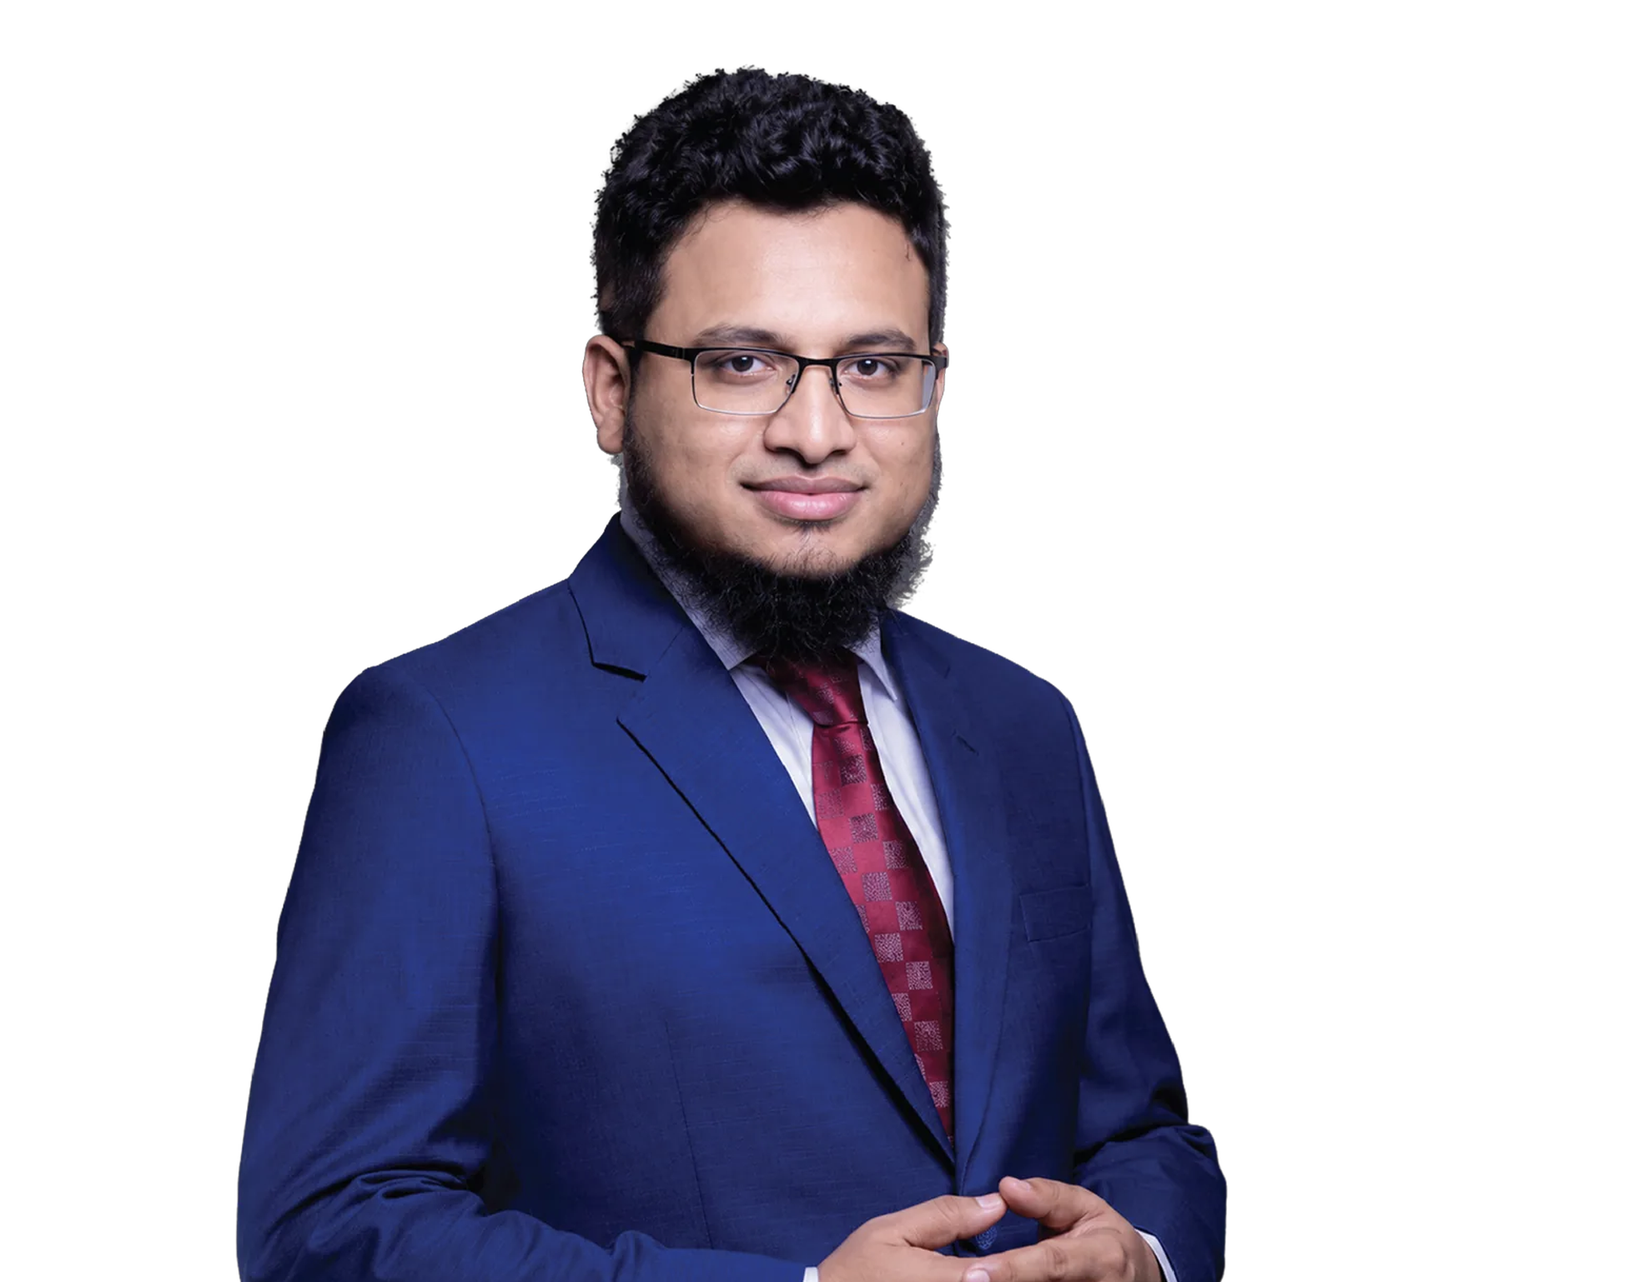
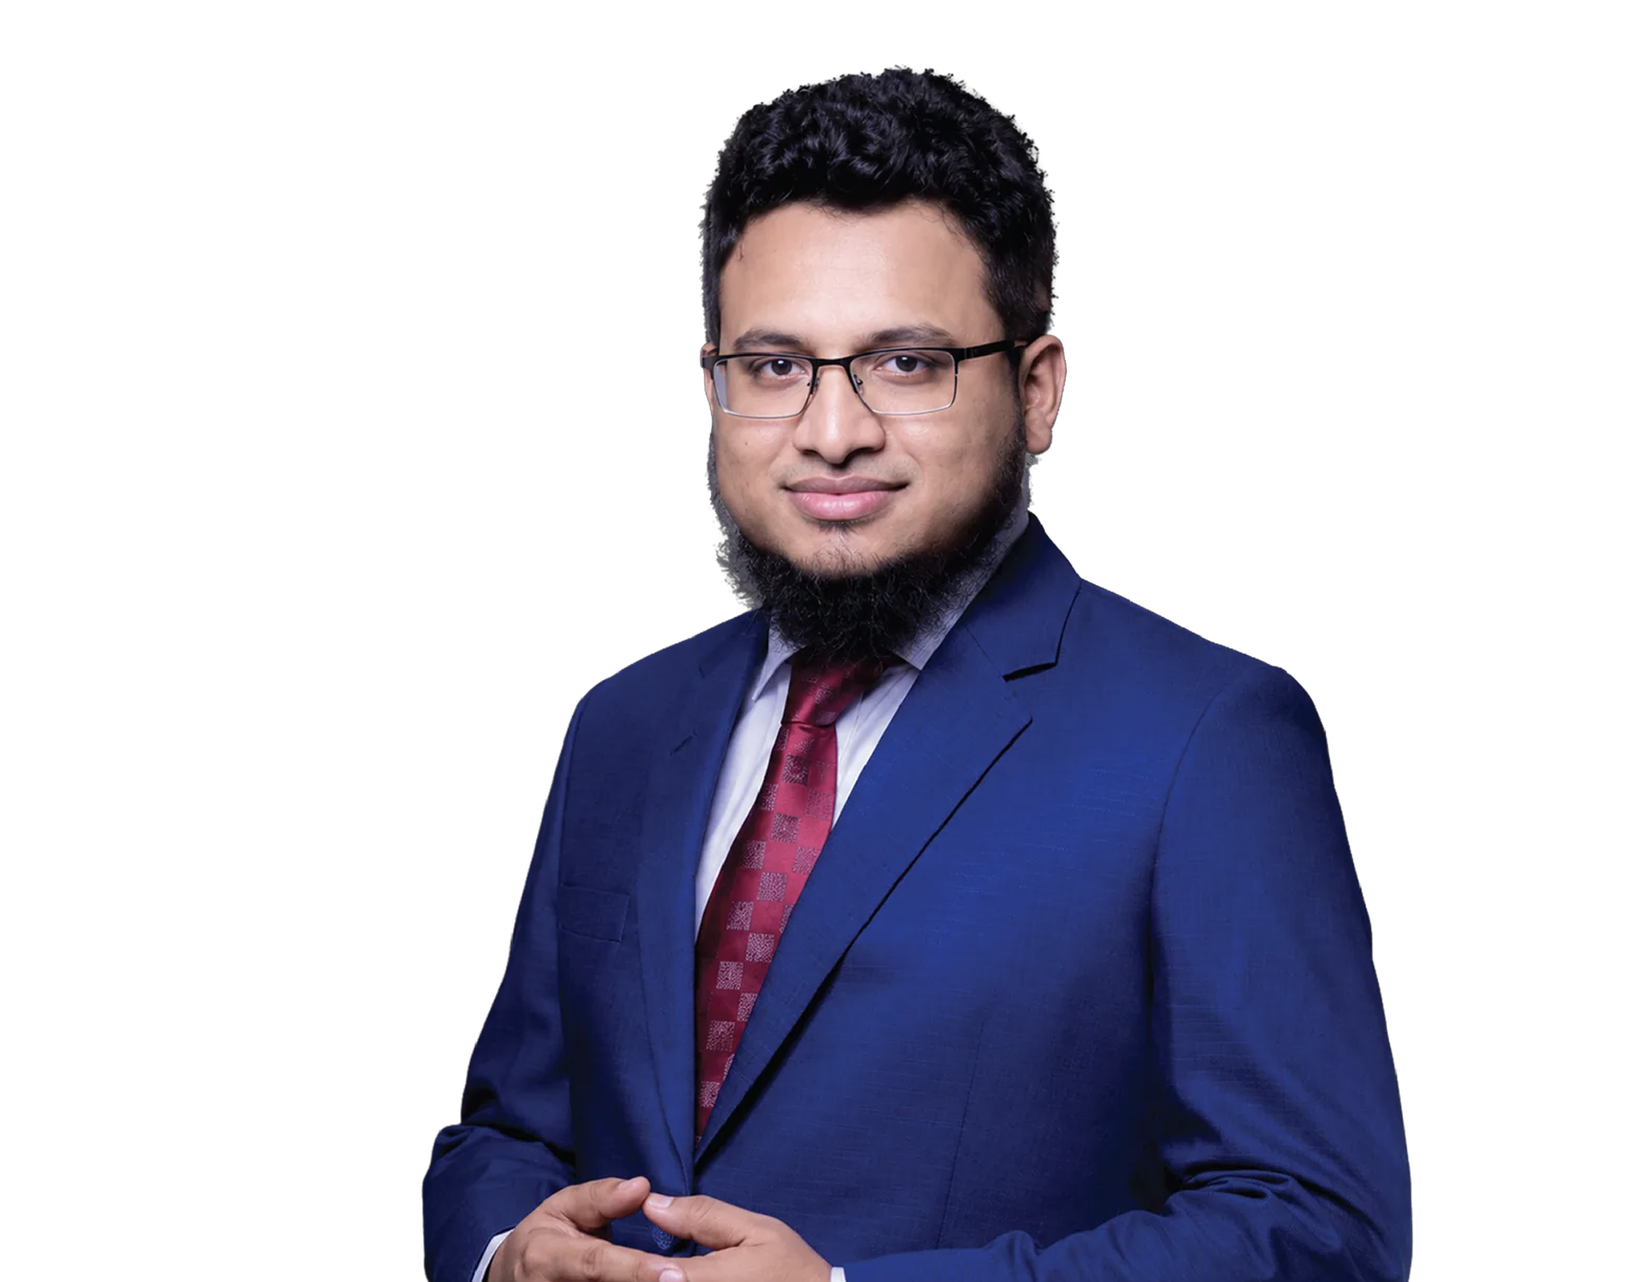
refactor(board): update board member pages for portrait consistency and layout
- Remove legacy comments and portraitClassName props for cleaner codebase
- Standardize portrait image dimensions to width 7236 and height 9848 for all members
- Wrap OtherBoardMembers component in a div with margin-bottom for consistent spacing
- Adjust MemberMessageHero component styles for uniform portrait sizing and improved typography
- Change fixed aspect ratios in OtherBoardMembers grid from 429/582 to 429/510 and adjust font sizes
- Enhance MessageSection component to refine layout spacing, portrait positioning, and text styles
- Add new GSAP animation (.rv-lift) for smooth portrait entrance effect with scroll trigger
- Replace chairman portrait image with updated version and remove old file from repository

diff --git a/components/board/MessageSection.tsx b/components/board/MessageSection.tsx
@@ -60,8 +60,8 @@ export default function MessageSection({
     >
       <div className="flex flex-1 flex-col px-4 sm:px-6 pb-4 md:px-12 lg:px-20">
         <div
-          className={`relative pt-[22.5rem] md:pt-[27.5rem] lg:h-[36rem] lg:min-h-0 ${
-            reduceTopGap ? "mt-10 md:mt-12 lg:mt-[8.5rem]" : "mt-10 lg:mt-[7.125rem]"
+          className={`relative pt-[23rem] md:pt-[32rem] lg:h-[33rem] lg:min-h-0 ${
+            reduceTopGap ? "mt-24 lg:mt-[10rem]" : "mt-10 lg:mt-[6rem]"
           }`}
           data-rv-scope
         >
@@ -96,14 +96,27 @@ export default function MessageSection({
             )}
           </div>
 
-          {/* Portrait — same positioning as the legacy section. No hover. */}
-          <div className="absolute -top-16 left-1/2 z-20 h-[26.5rem] w-[86%] max-w-[30rem] -translate-x-1/2 md:-top-20 md:h-[32.5rem] lg:top-auto lg:bottom-0 lg:left-[25.87%] lg:h-[44rem] lg:w-[38%] lg:max-w-[31rem] lg:translate-x-0">
+          {/* Portrait — same positioning as the legacy section. No hover.
+              The img itself carries `.rv-lift` (slow rise from below): the
+              wrapper owns the mobile `-translate-x-1/2`, and GSAP writes an
+              inline transform, so animating the wrapper would knock the
+              portrait out of its horizontal centering.
+              Below lg the picture is drawn with `object-cover`: these PNGs are
+              landscape canvases with wide transparent margins, so `contain`
+              spent most of the box on empty space and the member looked small.
+              Cover crops the margins and scales the figure off the box height.
+              The `-top` offset and the container's `pt` stay in step (box
+              bottom = -top + h = 23rem), so the copy still starts exactly
+              where the figure ends: shrinking the figure only pulls the head
+              back down, it never moves the text. */}
+          <div className="absolute -top-[4.2rem] left-1/2 z-20 h-[27.2rem] w-[103%] max-w-[58rem] -translate-x-1/2 md:-top-[26rem] md:h-[58rem] md:w-[92%] lg:top-auto lg:bottom-0 lg:left-[17%] lg:h-[52rem] lg:w-[54%] lg:max-w-[52rem] lg:translate-x-0">
             <Image
               src={image.src}
               alt={`${name}, ${role} of Amanat Shah Group`}
               fill
-              sizes="(min-width: 1024px) 38vw, (min-width: 768px) 32rem, 86vw"
-              className="origin-bottom object-contain object-bottom transition-none"
+              sizes="(min-width: 1024px) 52rem, (min-width: 768px) 58rem, 103vw"
+              className="rv-lift origin-bottom object-contain object-bottom max-lg:object-cover transition-none"
+              data-delay="0.15"
               quality={90}
             />
           </div>
@@ -115,10 +128,10 @@ export default function MessageSection({
           />
 
           {/* Name / role / divider / org label — left */}
-          <div className={`relative z-30 border-t border-current/20 px-0 sm:px-6 pt-8 md:px-10 lg:absolute lg:inset-x-auto lg:top-1/2 lg:left-[5rem] lg:border-t-0 lg:px-0 lg:pt-0 lg:-translate-y-1/2 lg:w-[18.375rem] ${textClass}`}>
-            <h3 className="font-archivo-black text-3xl leading-[1.08] uppercase lg:text-[2rem] rv-split">{name}</h3>
+          <div className={`relative z-30 border-t border-current/20 px-0 sm:px-6 pt-6 md:px-10 lg:absolute lg:inset-x-auto lg:top-1/2 lg:left-[5rem] lg:border-t-0 lg:px-0 lg:pt-0 lg:-translate-y-1/2 lg:w-[18.375rem] ${textClass}`}>
+            <h3 className="font-archivo-black text-2xl sm:text-3xl leading-[1.08] uppercase lg:text-[2rem] rv-split">{name}</h3>
             <div className="rv">
-              <p className="mt-4 sm:mt-6 leading-6 text-[1.25rem]">{role}</p>
+              <p className="mt-2 sm:mt-4 sm:mt-6 leading-6 text-lg sm:text-[1.25rem]">{role}</p>
               <p className="mt-4 block sm:hidden font-archivo-black text-base leading-5 uppercase lg:text-[1.1rem] mb-5">
                 {orgLabel}
               </p>
@@ -132,7 +145,7 @@ export default function MessageSection({
           {/* Bio + CTA — right, left-aligned */}
           <div className={`relative z-30 mt-5 sm:mt-8 flex flex-col gap-8 px-0 sm:px-6 text-left md:px-10 lg:absolute lg:inset-x-auto lg:right-[5rem] lg:top-1/2 lg:bottom-auto lg:mt-0 lg:px-0 lg:w-[36rem] lg:-translate-y-1/2 lg:gap-[2.5rem] pb-[2rem] sm:pb-0 ${textClass}`}>
             <div className="rv">
-              <p className="text-lg sm:text-xl leading-7 lg:text-[1.7rem] lg:leading-9">
+              <p className="text-base sm:text-xl leading-6 lg:text-[1.7rem] lg:leading-9 tracking-wider">
                 {bio}
               </p>
             </div>

diff --git a/components/web-info/RevealRunner.tsx b/components/web-info/RevealRunner.tsx
@@ -17,6 +17,11 @@ type MatchMediaInstance = ReturnType<typeof gsap.matchMedia>;
  *
  *   .rv        block fade + rise (optional data-delay="0.25" for cascade
  *              rhythm between sibling blocks)
+ *   .rv-lift   large-imagery entrance, mirroring the homepage "Legacy of
+ *              Leadership" portrait tween: rises from below while settling out
+ *              of a slight zoom, power3.out, and reverses when scrolled back
+ *              up. The fade still finishes early so the figure is solid while
+ *              it keeps travelling. No blur; it turns muddy on tall images.
  *   .rv-items  children stagger in — marks [data-card] / [data-member-card]
  *              descendants when present, otherwise the `.grid > div` cells
  *   .rv-split  heading words rise out of masks (text becomes spans client-side;
@@ -40,6 +45,11 @@ type MatchMediaInstance = ReturnType<typeof gsap.matchMedia>;
 const TOKENS = {
   start: "top 78%",
   block: { y: 26, duration: 1.0 },
+  /* Numbers copied from LegacyOfLeadership's desktop portrait tween (y 80,
+   * scale 0.94 -> 1, 1.35s, power3.out, trigger "top 82%", reverses on
+   * scroll-up). Travel still exceeds the h-24 bottom mask in MessageSection,
+   * so the figure never shows below the card while rising in. */
+  lift: { y: 80, scale: 0.94, duration: 1.35, fade: 0.45, start: "top 82%" },
   items: { y: 26, duration: 1.0, stagger: 0.06 },
   split: { duration: 1.0, stagger: 0.045 },
   image: { clip: 1.5, zoom: 1.9 },
@@ -115,6 +125,45 @@ function bind(): MatchMediaInstance {
               : { delay: parseFloat(el.dataset.delay || "0") }),
             scrollTrigger: { trigger: triggerOf(el), start: TOKENS.start, once: true },
           }
+        );
+      });
+
+    /* .rv-lift — tall imagery (board portraits, full-bleed figures) rises from
+     * below while its zoom settles out, the same motion the homepage Legacy of
+     * Leadership portrait uses. Two tracks on one timeline so the fade does not
+     * have to wait for the travel: the figure is fully opaque after
+     * TOKENS.lift.fade while still moving for the full duration. Shares
+     * .rv's [data-rv-scope] grouping, but plays and reverses with the scroll
+     * instead of firing once. */
+    document
+      .querySelectorAll<HTMLElement>(".rv-lift:not([data-rv-bound])")
+      .forEach((el) => {
+        el.dataset.rvBound = "1";
+        const tl = gsap.timeline({
+          delay: parseFloat(el.dataset.delay || "0"),
+          scrollTrigger: {
+            trigger: triggerOf(el),
+            start: TOKENS.lift.start,
+            toggleActions: "play none none reverse",
+          },
+        });
+        tl.fromTo(
+          el,
+          { autoAlpha: 0 },
+          { autoAlpha: 1, duration: TOKENS.lift.fade, ease: "power1.out" },
+          0
+        );
+        tl.fromTo(
+          el,
+          { y: TOKENS.lift.y, scale: TOKENS.lift.scale },
+          {
+            y: 0,
+            scale: 1,
+            duration: TOKENS.lift.duration,
+            ease: "power3.out",
+            force3D: true,
+          },
+          0
         );
       });
 

diff --git a/components/board/MemberMessageHero.tsx b/components/board/MemberMessageHero.tsx
@@ -6,10 +6,10 @@ export type MemberMessageHeroProps = {
   role: string;
   org: string;
   portrait: { src: string; width: number; height: number };
-  /** Desktop size/position for the portrait. Bottom-anchored and sized to fill
-      the hero height at the source image's aspect ratio, so it differs per
-      member: width = 42.7em x (w / h), right = 120em - 62.5em - width. */
-  portraitClassName: string;
+  /** Optional extra desktop classes for the portrait. Size and horizontal
+      position are uniform for every member and live on the <Image> below, so
+      this is only for the rare page that needs a one-off tweak. */
+  portraitClassName?: string;
 };
 
 /**
@@ -48,8 +48,7 @@ export default function MemberMessageHero({
           quality={90}
           className="hidden sm:block lg:absolute lg:left-[22.5em] lg:top-[18.75em] lg:h-[13.35em] lg:w-[13.35em]"
         />
-
-        {/* Portrait — shows first on mobile, bottom-aligned on desktop */}
+        
         <Image
           src={portrait.src}
           alt={`${name} — ${role}`}
@@ -57,14 +56,14 @@ export default function MemberMessageHero({
           height={portrait.height}
           priority
           quality={90}
-          className={`rv-rise mx-auto w-[75%] sm:w-48 sm:mt-8 sm:w-72 lg:absolute lg:bottom-0 lg:mx-0 lg:mt-0 h-auto z-20 ${portraitClassName}`}
+          className={`rv-rise mx-auto w-[92%] sm:w-48 sm:mt-8 sm:w-88 lg:absolute lg:bottom-0 lg:right-[13.72em] lg:mx-0 lg:mt-0 h-auto lg:h-[38em] lg:w-[44em] lg:object-cover lg:object-bottom z-20 ${portraitClassName ?? ""}`}
         />
 
         {/* Name / role / divider / group — shows after portrait on mobile */}
-        <div className="mt-4 sm:mt-6 lg:absolute lg:bottom-[3em] lg:left-[22.5em] lg:mt-0 lg:w-[51.25em]" data-rv-scope>
-          <h1 className="font-archivo-black font-medium text-[1.65rem] sm:text-4xl lg:text-[3em] lg:leading-[1.11] text-neutral-800 rv-split">{name}</h1>
+        <div className="mt-2.5 sm:mt-6 lg:absolute lg:bottom-[3em] lg:left-[22.5em] lg:mt-0 lg:w-[51.25em]" data-rv-scope>
+          <h1 className="font-archivo-black font-medium text-[1.5rem] sm:text-4xl lg:text-[3em] lg:leading-[1.11] text-neutral-800 rv-split">{name}</h1>
           <div className="rv">
-            <p className="mt-[0.33em] tracking-wider text-[1.125rem] sm:text-[1.33em] lg:leading-[1.5] text-neutral-800">
+            <p className="mt-[0.33em] tracking-wider text-base sm:text-[1.33em] lg:leading-[1.5] text-neutral-800">
               {role}
             </p>
             <div

diff --git a/components/board/OtherBoardMembers.tsx b/components/board/OtherBoardMembers.tsx
@@ -121,9 +121,9 @@ export default function OtherBoardMembers({
   if (layout === "grid") {
     const renderCard = (member: CarouselMember, key: string, slider: boolean) => {
       const cardContent = (
-        <div className="relative w-full aspect-[429/582]">
+        <div className="relative w-full aspect-[429/510]">
           <div className="absolute inset-x-0 top-0 z-10 flex flex-col items-center text-center px-4 pt-6 sm:pt-10 lg:pt-[5em]">
-            <h3 className="whitespace-pre-line font-archivo-black font-medium text-[1.2em] lg:text-[2em] text-neutral-800 leading-tight">
+            <h3 className="whitespace-pre-line font-archivo-black font-medium text-[1.1em] lg:text-[2em] text-neutral-800 leading-tight">
               {member.name}
             </h3>
             <p className="mt-0.5 sm:mt-1 text-[15px] lg:text-[1.2em] text-neutral-600 font-medium tracking-wider">
@@ -216,7 +216,7 @@ export default function OtherBoardMembers({
                 /* Fixed card ratio so the source image's dimensions never drive
                    the layout — otherwise a shorter portrait leaves dead space
                    below it once the flex row stretches every card to match */
-                <div className="relative w-full aspect-[429/582]">
+                <div className="relative w-full aspect-[429/510]">
                   <div className="absolute inset-x-0 top-0 z-10 flex flex-col items-center text-center px-4 pt-6 sm:pt-10 lg:pt-[5em]">
                     <h3 className="whitespace-pre-line font-archivo-black font-medium text-[1.2em] lg:text-[2em] text-neutral-800 leading-tight">
                       {member.name}

diff --git a/app/board-of-directors/mohammad-kamrul-islam/page.tsx b/app/board-of-directors/mohammad-kamrul-islam/page.tsx
@@ -11,9 +11,6 @@ export const metadata: Metadata = {
     "Mohammad Kamrul Islam, Entrepreneur on the Board of Amanat Shah Group.",
 };
 
-/* PLACEHOLDER COPY — the Figma file has no detail page for the entrepreneurs,
-   only their name and role on the carousel cards. Replace both paragraphs with
-   the member's approved biography before this page goes live. */
 const messageParagraphs = [
   "Mr. Mohammad Kamrul Islam serves on the Board of Amanat Shah Group as an Entrepreneur.",
   "A full profile is being prepared and will be published here shortly.",
@@ -31,11 +28,8 @@ export default function MohammadKamrulIslamPage() {
         portrait={{
           src: "/images/board-of-directors/mohammad-kamrul-islam.png",
           width: 7236,
-          height: 9771,
+          height: 9848,
         }}
-        /* Sized to fill the hero height at this portrait's aspect ratio, with
-           the left edge aligned to the other detail pages */
-        portraitClassName="lg:w-[31.62em] lg:right-[23.88em]"
       />
       <MessageBody
         id="mohammad-kamrul-islam-full-message"
@@ -47,7 +41,9 @@ export default function MohammadKamrulIslamPage() {
           org: "AMANAT SHAH GROUP",
         }}
       />
-      <OtherBoardMembers members={otherMembersFor("mohammad-kamrul-islam")} />
+      <div className="sm:mb-6">
+        <OtherBoardMembers members={otherMembersFor("mohammad-kamrul-islam")} />
+      </div>
     </main>
   );
 }

diff --git a/app/board-of-directors/mahamudul-hasan/page.tsx b/app/board-of-directors/mahamudul-hasan/page.tsx
@@ -11,9 +11,6 @@ export const metadata: Metadata = {
     "Mahamudul Hasan, Entrepreneur on the Board of Amanat Shah Group.",
 };
 
-/* PLACEHOLDER COPY — the Figma file has no detail page for the entrepreneurs,
-   only their name and role on the carousel cards. Replace both paragraphs with
-   the member's approved biography before this page goes live. */
 const messageParagraphs = [
   "Mr. Mahamudul Hasan serves on the Board of Amanat Shah Group as an Entrepreneur.",
   "A full profile is being prepared and will be published here shortly.",
@@ -31,11 +28,8 @@ export default function MahamudulHasanPage() {
         portrait={{
           src: "/images/board-of-directors/mahamudul-hasan.png",
           width: 7236,
-          height: 9771,
+          height: 9848,
         }}
-        /* Sized to fill the hero height at this portrait's aspect ratio, with
-           the left edge aligned to the other detail pages */
-        portraitClassName="lg:w-[31.62em] lg:right-[25.88em]"
       />
       <MessageBody
         id="mahamudul-hasan-full-message"
@@ -47,7 +41,9 @@ export default function MahamudulHasanPage() {
           org: "AMANAT SHAH GROUP",
         }}
       />
-      <OtherBoardMembers members={otherMembersFor("mahamudul-hasan")} />
+      <div className="sm:mb-6">
+        <OtherBoardMembers members={otherMembersFor("mahamudul-hasan")} />
+      </div>
     </main>
   );
 }

diff --git a/app/board-of-directors/akm-azad/page.tsx b/app/board-of-directors/akm-azad/page.tsx
@@ -11,9 +11,6 @@ export const metadata: Metadata = {
     "Akm Azad, Entrepreneur on the Board of Amanat Shah Group.",
 };
 
-/* PLACEHOLDER COPY — the Figma file has no detail page for the entrepreneurs,
-   only their name and role on the carousel cards. Replace both paragraphs with
-   the member's approved biography before this page goes live. */
 const messageParagraphs = [
   "Mr. Akm Azad serves on the Board of Amanat Shah Group as an Entrepreneur.",
   "A full profile is being prepared and will be published here shortly.",
@@ -33,9 +30,6 @@ export default function AkmAzadPage() {
           width: 7236,
           height: 9848,
         }}
-        /* Sized to fill the hero height at this portrait's aspect ratio, with
-           the left edge aligned to the other detail pages */
-        portraitClassName="lg:w-[31.37em] lg:right-[26.13em]"
       />
       <MessageBody
         id="akm-azad-full-message"
@@ -47,7 +41,9 @@ export default function AkmAzadPage() {
           org: "AMANAT SHAH GROUP",
         }}
       />
-      <OtherBoardMembers members={otherMembersFor("akm-azad")} />
+      <div className="sm:mb-6">
+        <OtherBoardMembers members={otherMembersFor("akm-azad")} />
+      </div>
     </main>
   );
 }

diff --git a/app/board-of-directors/managing-director/page.tsx b/app/board-of-directors/managing-director/page.tsx
@@ -1,3 +1,4 @@
+
 import type { Metadata } from "next";
 import MemberMessageHero from "@/components/board/MemberMessageHero";
 import MessageBody from "@/components/board/MessageBody";
@@ -34,12 +35,10 @@ export default function ManagingDirectorMessagePage() {
         org="AMANAT SHAH GROUP"
         portrait={{
           src: "/images/board-of-directors/director.png",
-          width: 1956,
-          height: 2200,
+          width: 7236,
+          height: 9848,
         }}
-        /* Sized to fill the hero height at this portrait's aspect ratio, with
-           the left edge aligned to the other detail pages */
-        portraitClassName="lg:w-[37.96em] lg:right-[19.54em]"
+        
       />
       <MessageBody
         id="managing-director-full-message"
@@ -52,7 +51,9 @@ export default function ManagingDirectorMessagePage() {
           org: "AMANAT SHAH GROUP",
         }}
       />
-      <OtherBoardMembers members={otherMembersFor("managing-director")} />
+      <div className="sm:mb-6">
+        <OtherBoardMembers members={otherMembersFor("managing-director")} />
+      </div>
     </main>
   );
 }

diff --git a/app/board-of-directors/rezawan-kabir-shihab/page.tsx b/app/board-of-directors/rezawan-kabir-shihab/page.tsx
@@ -31,9 +31,6 @@ export default function RezawanKabirShihabPage() {
           width: 7236,
           height: 9848,
         }}
-        /* Sized to fill the hero height at this portrait's aspect ratio, with
-           the left edge aligned to the other detail pages */
-        portraitClassName="lg:w-[31.37em] lg:right-[26.13em]"
       />
       <MessageBody
         id="director-full-message"
@@ -45,7 +42,9 @@ export default function RezawanKabirShihabPage() {
           org: "AMANAT SHAH GROUP",
         }}
       />
-      <OtherBoardMembers members={otherMembersFor("rezawan-kabir-shihab")} />
+      <div className="sm:mb-6">
+        <OtherBoardMembers members={otherMembersFor("rezawan-kabir-shihab")} />
+      </div>
     </main>
   );
 }

diff --git a/app/board-of-directors/md-jubayer-amin/page.tsx b/app/board-of-directors/md-jubayer-amin/page.tsx
@@ -31,9 +31,6 @@ export default function MdJubayerAminPage() {
           width: 7236,
           height: 9848,
         }}
-        /* Sized to fill the hero height at this portrait's aspect ratio, with
-           the left edge aligned to the other detail pages */
-        portraitClassName="lg:w-[31.37em] lg:right-[26.13em]"
       />
       <MessageBody
         id="miah-director-full-message"
@@ -45,7 +42,9 @@ export default function MdJubayerAminPage() {
           org: "AMANAT SHAH GROUP",
         }}
       />
-      <OtherBoardMembers members={otherMembersFor("md-jubayer-amin")} />
+      <div className="sm:mb-6">
+        <OtherBoardMembers members={otherMembersFor("md-jubayer-amin")} />
+      </div>
     </main>
   );
 }

diff --git a/app/board-of-directors/chairman/page.tsx b/app/board-of-directors/chairman/page.tsx
@@ -37,9 +37,6 @@ export default function ChairmanMessagePage() {
           width: 7236,
           height: 9848,
         }}
-        /* Sized to fill the hero height at this portrait's aspect ratio, with
-           the left edge aligned to the other detail pages. Mirrored horizontally. */
-        portraitClassName="lg:w-[31.37em] lg:right-[20.13em]"
       />
       <MessageBody
         id="chairman-full-message"

diff --git a/app/board-of-directors/page.tsx b/app/board-of-directors/page.tsx
@@ -41,6 +41,7 @@ export default function BoardOfDirectorsPage() {
           height: 530,
         }}
       />
+
       <MessageSection
         id="managing-director-message"
         name="Rezaul Karim"
